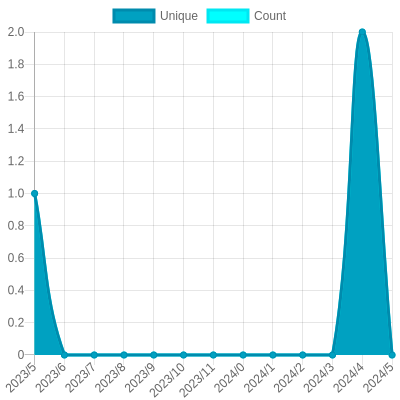
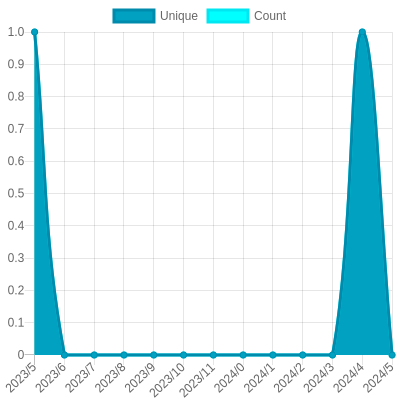
Update views

diff --git a/readme/407146012/year.md b/readme/407146012/year.md
@@ -34,10 +34,10 @@
 			<code>2023/5/1</code>
 		</td>
 		<td>
-			<code>2</code>
+			<code>1</code>
 		</td>
 		<td>
-			<code>2</code>
+			<code>1</code>
 		</td>
 	</tr>
 	<tr>
@@ -164,7 +164,7 @@
 </table>
 
 </details>
-<small><i>Last updated on 2023/6/8 12:09 PM UTC</i></small>
+<small><i>Last updated on 2023/6/8 6:04 PM UTC</i></small>
 
 ## ✂Copy and 📋 Paste
 ### SVG Badge

diff --git a/README.md b/README.md
@@ -149,7 +149,7 @@ The project created and maintained by [gayanvoice](https://github.com/gayanvoice
 	</tr>
 </table>
 
-<small><i>Last updated on 2023/6/8 12:09 PM UTC</i></small>
+<small><i>Last updated on 2023/6/8 6:04 PM UTC</i></small>
 
 ## ✂Copy and 📋 Paste
 ### Total Views Badge

diff --git a/readme/405877089/year.md b/readme/405877089/year.md
@@ -164,7 +164,7 @@
 </table>
 
 </details>
-<small><i>Last updated on 2023/6/8 12:08 PM UTC</i></small>
+<small><i>Last updated on 2023/6/8 6:03 PM UTC</i></small>
 
 ## ✂Copy and 📋 Paste
 ### SVG Badge

diff --git a/readme/407480595/year.md b/readme/407480595/year.md
@@ -164,7 +164,7 @@
 </table>
 
 </details>
-<small><i>Last updated on 2023/6/8 12:09 PM UTC</i></small>
+<small><i>Last updated on 2023/6/8 6:04 PM UTC</i></small>
 
 ## ✂Copy and 📋 Paste
 ### SVG Badge

diff --git a/readme/437118261/year.md b/readme/437118261/year.md
@@ -164,7 +164,7 @@
 </table>
 
 </details>
-<small><i>Last updated on 2023/6/8 12:09 PM UTC</i></small>
+<small><i>Last updated on 2023/6/8 6:03 PM UTC</i></small>
 
 ## ✂Copy and 📋 Paste
 ### SVG Badge

diff --git a/readme/442742397/year.md b/readme/442742397/year.md
@@ -164,7 +164,7 @@
 </table>
 
 </details>
-<small><i>Last updated on 2023/6/8 12:09 PM UTC</i></small>
+<small><i>Last updated on 2023/6/8 6:03 PM UTC</i></small>
 
 ## ✂Copy and 📋 Paste
 ### SVG Badge

diff --git a/readme/459752966/year.md b/readme/459752966/year.md
@@ -164,7 +164,7 @@
 </table>
 
 </details>
-<small><i>Last updated on 2023/6/8 12:09 PM UTC</i></small>
+<small><i>Last updated on 2023/6/8 6:04 PM UTC</i></small>
 
 ## ✂Copy and 📋 Paste
 ### SVG Badge

diff --git a/readme/517565501/year.md b/readme/517565501/year.md
@@ -164,7 +164,7 @@
 </table>
 
 </details>
-<small><i>Last updated on 2023/6/8 12:08 PM UTC</i></small>
+<small><i>Last updated on 2023/6/8 6:03 PM UTC</i></small>
 
 ## ✂Copy and 📋 Paste
 ### SVG Badge

diff --git a/readme/545485979/year.md b/readme/545485979/year.md
@@ -164,7 +164,7 @@
 </table>
 
 </details>
-<small><i>Last updated on 2023/6/8 12:09 PM UTC</i></small>
+<small><i>Last updated on 2023/6/8 6:04 PM UTC</i></small>
 
 ## ✂Copy and 📋 Paste
 ### SVG Badge
